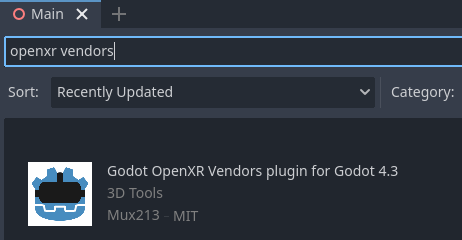
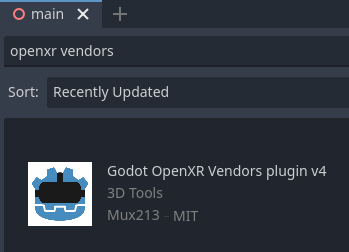
Update OpenXR vendors plugin page for v4 of plugin

diff --git a/tutorials/xr/deploying_to_android.rst b/tutorials/xr/deploying_to_android.rst
@@ -40,7 +40,7 @@ Installing the vendors plugin
 -----------------------------
 
 The vendors plugin can be downloaded from the asset library, search for "OpenXR vendors"
-and install the one named "Godot OpenXR Vendors plugin for Godot 4.3".
+and install the one named "Godot OpenXR Vendors plugin v4".
 
 .. image:: img/openxr_loader_asset_lib.webp
 
